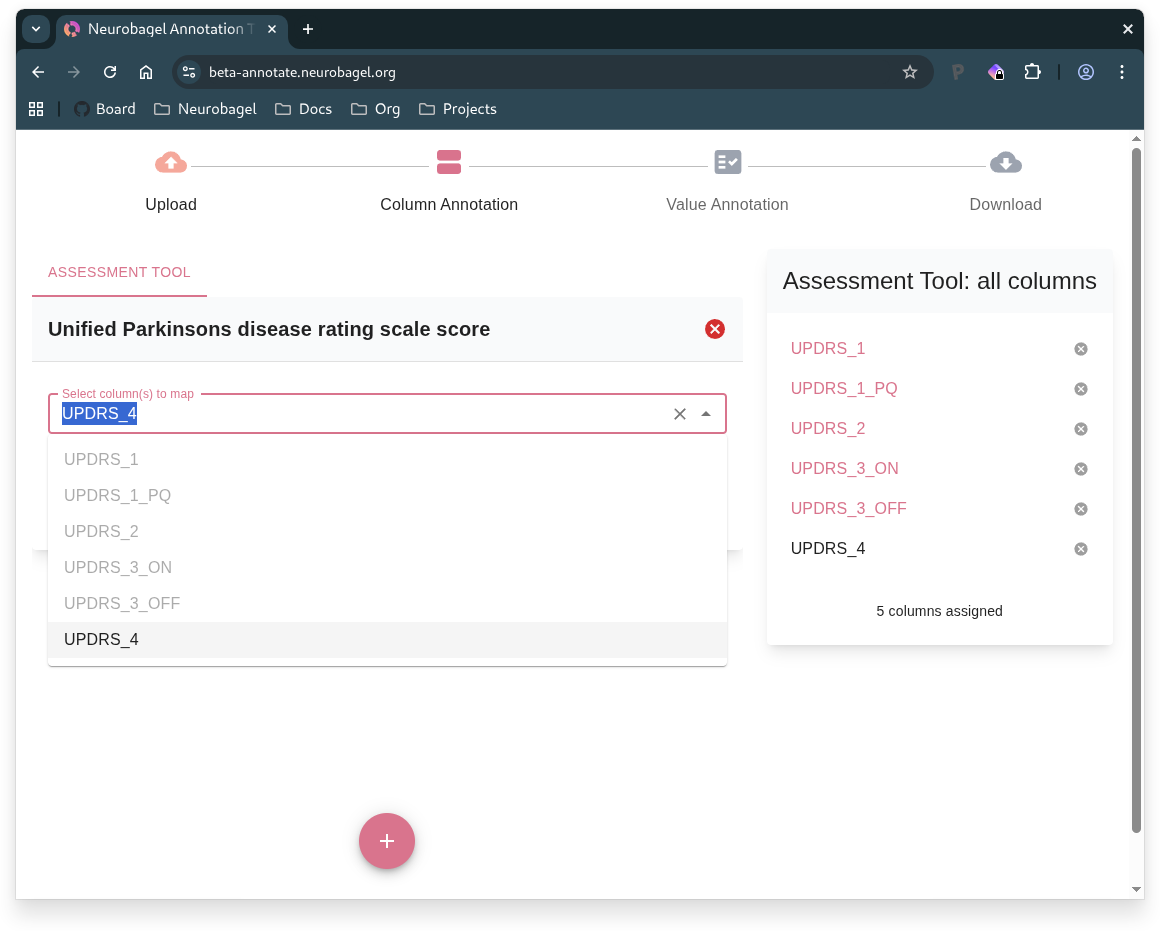
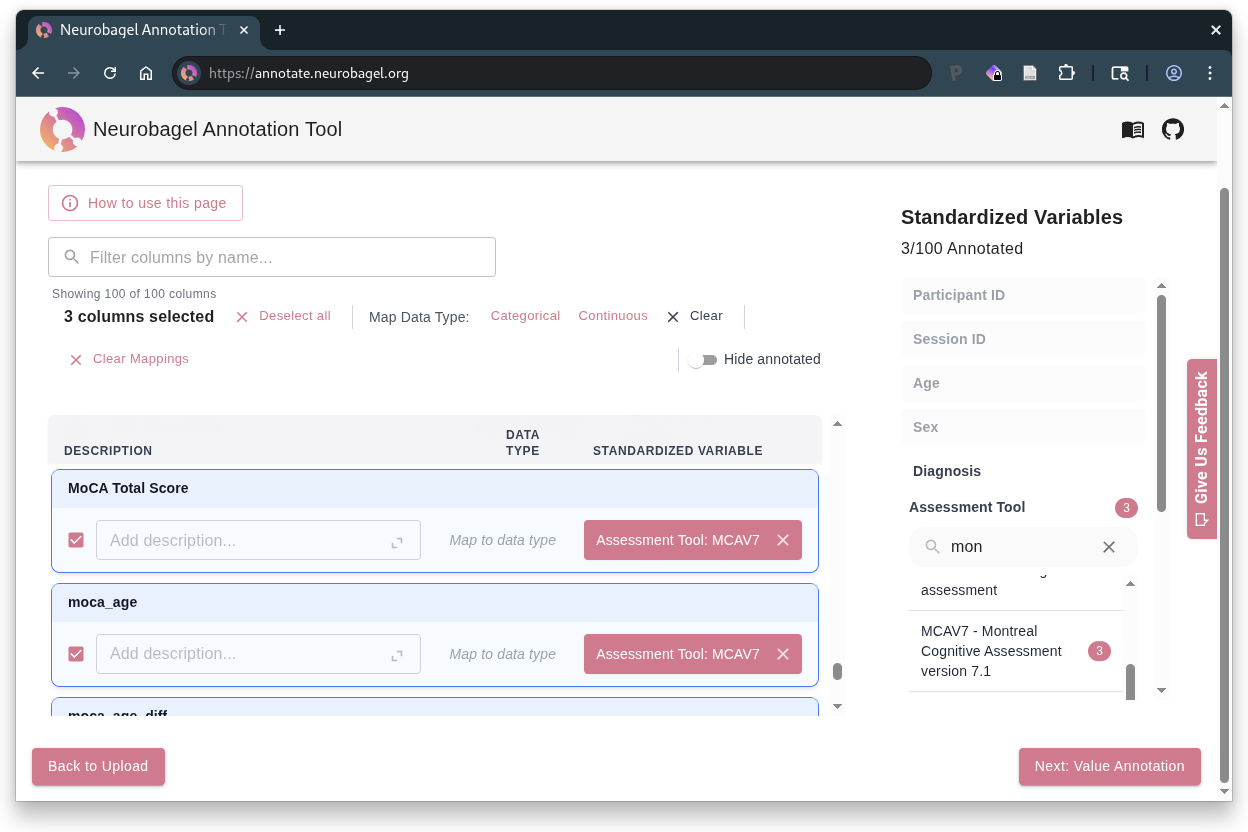
[ENH] Update column annotation docs (neurobagel/documentation#399)
* update column annotation instructions and remove multi-column measure annotation docs

* Add updated figures

* Add assessment annotation screenshot

* upgrade pymdown-extensions to enable image caption syntax

* remove bold formatting and polish column annotation instructions

---------

diff --git a/docs/docs/user_guide/annotation_tool.md b/docs/docs/user_guide/annotation_tool.md
@@ -13,9 +13,9 @@ The Neurobagel annotation tool creates standardized, machine-readable data dicti
 
 ![Annotation tool upload step screenshot](../imgs/annotate/upload.png)
 
-- **Upload your [data table](data_prep.md)** (.tsv file)
+- Upload your [data table](data_prep.md) (.tsv file)
     - Can be `participants.tsv` from a BIDS dataset
-- **Optional**: Upload an existing data dictionary (.json file) for extra context
+- Optional: Upload an existing data dictionary (.json file) for extra context
     - Can use `participants.json` from a BIDS dataset
     - Or continue previous Neurobagel annotation work
 
@@ -23,42 +23,56 @@ In the following steps, you will annotate your table by first describing the col
 
 ## 2. Column Annotation
 
-![Annotation tool column annotation step screenshot](../imgs/annotate/column_annotation.png)
+![Annotation tool column annotation step screenshot - non-assessment variables](../imgs/annotate/column_annotation_non-assessment.png)
 
-Each column in your uploaded table is represented as a card on this page. For each column, you can:
+Each column in your uploaded table is represented as a card on the left side of this page.
+Select a column to annotate it.
 
-- **Add a description**
-- **Select the [standardized variable](../data_models/variables.md) that best describes the column from the dropdown** (if a suitable match exists)
-- **Select the data type**
+!!! tip
+    To select multiple columns, hold down ++shift++ , ++ctrl++ , or ++cmd++ .
+
+For each column, you can:
+
+- Add a description
+- Select the [standardized variable](../data_models/variables.md) that best describes the column (if a suitable match exists)
+    - First select the column(s) to map, and then select the corresponding variable name
+    from the "Standardized Variables" list on the right
+    - The number next to a standardized variable (:material-numeric-1-circle:) indicates how many columns are currently mapped to it
+
+    !!! info "Some standardized variables only allow 1 mapped column"
+        A standardized variable with a limit of 1 mapped column will appear disabled in the right sidebar once a column has been mapped to it.
+        To map a different column to the variable, first clear the mapping for the old column.
+
+- Select the assessment tool used to collect the column's data (if a suitable match exists)
+    - If a column contains information from an assessment, you can map it to a corresponding assessment term from the "Assessment Tool" list on the right
+    - First select the column(s) about the assessment, and then select the corresponding assessment term
+
+    !!! tip "Can't find a matching assessment term?"
+        The available assessment vocabulary may not cover all assessments collected in your data.
+        If no suitable match exists, consider providing the full assessment name in the "Description"
+        field of the relevant column(s) instead, for future reference.
+
+![Annotation tool column annotation step screenshot - collection variables](../imgs/annotate/multi_column_measures.png)
+/// caption
+Mapping columns to an assessment tool
+///
+
+- Select the data type
+    - To indicate the data type of the selected column(s), use the "Map Data Type" buttons above the columns table
     - Choose "Categorical" if the column contains discrete values, "Continuous" if it contains numerical measurements, or leave it empty if neither applies
-    - Columns mapped to standardized variables will have their data type inferred automatically
+    - Some standardized variables automatically set the data type of any column mapped to them
 
-!!! tip "When to manually select data type"
-    We recommend manually selecting the data type in two cases:
+    !!! tip "When to manually annotate data type"
+        We recommend manually selecting the data type in two cases:
 
-    1. When your column doesn't match any standardized variable
-    2. When your column matches the "Assessment tool" standardized variable (which does not have a predefined data type since it can represent multi-column measures)
+        1. When your column doesn't match any standardized variable
+        2. When your column corresponds to an assessment tool (since a single assessment can be represented by multiple columns with different data types, no default data type is assumed)
 
 ### If your dataset has imaging (BIDS) data
 
 The "Participant ID" standardized variable **must** be mapped to a column that contains the BIDS IDs for subjects, following the BIDS naming scheme `sub-<label>`.
 
 For more information, see [this section](data_prep.md#if-your-dataset-has-imaging-bids-data) on preparing the phenotypic data table for a BIDS dataset.
-
-### 2.1 Multi-column measure annotation
-
-!!! info
-    This step is only available if you have mapped columns in your data table to the "Assessment tool" standardized variable.
-
-![Annotation tool multi-column measures step screenshot](../imgs/annotate/multi_column_measures.png)
-
-The card on the right lists all columns from your data table that you have mapped to the "Assessment tool" standardized variable.
-
-1. Create a card for each assessment or instrument represented in your data by clicking :fontawesome-solid-circle-plus: and then selecting the name of the assessment from the dropdown list.
-    - If no suitable match exists, the available standardized vocabulary likely cannot currently represent your assessment.
-    - To avoid incomplete annotations, un-map any column(s) corresponding to missing assessments from the "Assessment tool" standardized variable using the :octicons-x-circle-fill-16: button in the overview card.
-2. Select the column(s) that describe each assessment, grouping together related columns as needed, using the dropdown on the respective assessment card.
-    - You can check remaining, ungrouped columns in the overview on the right.
 
 ## 3. Value Annotation
 ![Annotation tool value annotation step screenshot](../imgs/annotate/value_annotation.png)
@@ -108,9 +122,9 @@ For each unique column value, you can:
 ## 4. Download data dictionary
 ![Annotation tool download step screenshot](../imgs/annotate/download.png)
 
-- **Preview** your annotated data dictionary
-- **Download** the data dictionary `.json` file
-- **Annotate a new dataset** if desired
+- Preview your annotated data dictionary
+- Download the data dictionary `.json` file
+- Annotate a new dataset if desired
 
 !!! tip
     If you see a warning about "Incomplete Annotations", you will need to return to the Value Annotation page to complete any missing annotations before your data dictionary is valid for downstream Neurobagel tools.
